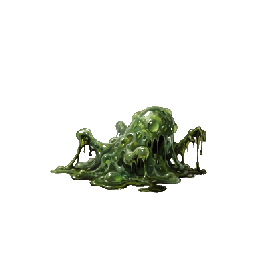
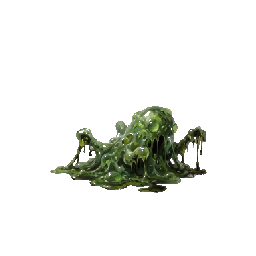
敵の絵 6 枚を v3 に差し替え、テストの MD5 を直す
大きさ・表示の作りは変えていない。

diff --git a/tests/assets/enemy-images.test.ts b/tests/assets/enemy-images.test.ts
@@ -7,12 +7,12 @@ import { ENEMIES } from '../../src/domain/constants';
 // 敵の絵のそろい（仕様書 §13.5）。置き忘れ・名前の打ち間違いは画面では「名前だけ」に戻るだけなので、ここで突き合わせる
 const dir = join(process.cwd(), 'public', 'enemies');
 const MD5: Record<string, string> = {
-  slime: 'c5fed93d07e3f2c1bdb5b14da661d597',
-  goblin: '480285da5605c87912288a3dac40d796',
-  skeleton: '2d04fbc3b88264e7acacc251ef35af04',
-  orc: '9b9153c28e912c0c16db6b1d9cded4f1',
-  darkKnight: '26fe01578e1da2a8ba6e0e581ca4a8a4',
-  necromancer: '6fa856ff00c6e18be8a45aa8a96f58b4',
+  slime: 'd93b44dfa7d63c1da1e3e4b12c4b6a74',
+  goblin: '16a4dc7c54cedf92e762f3f7e9136b8f',
+  skeleton: '9df2f42322c0b8fe44a1d911d73a643a',
+  orc: '4f769408998fe5060cb04f2c97986716',
+  darkKnight: '45c25616dad075cd9d9fef3888d42e90',
+  necromancer: 'bb0343f58c663e01b63221ecb291795e',
 };
 
 describe('敵の絵のファイル', () => {
